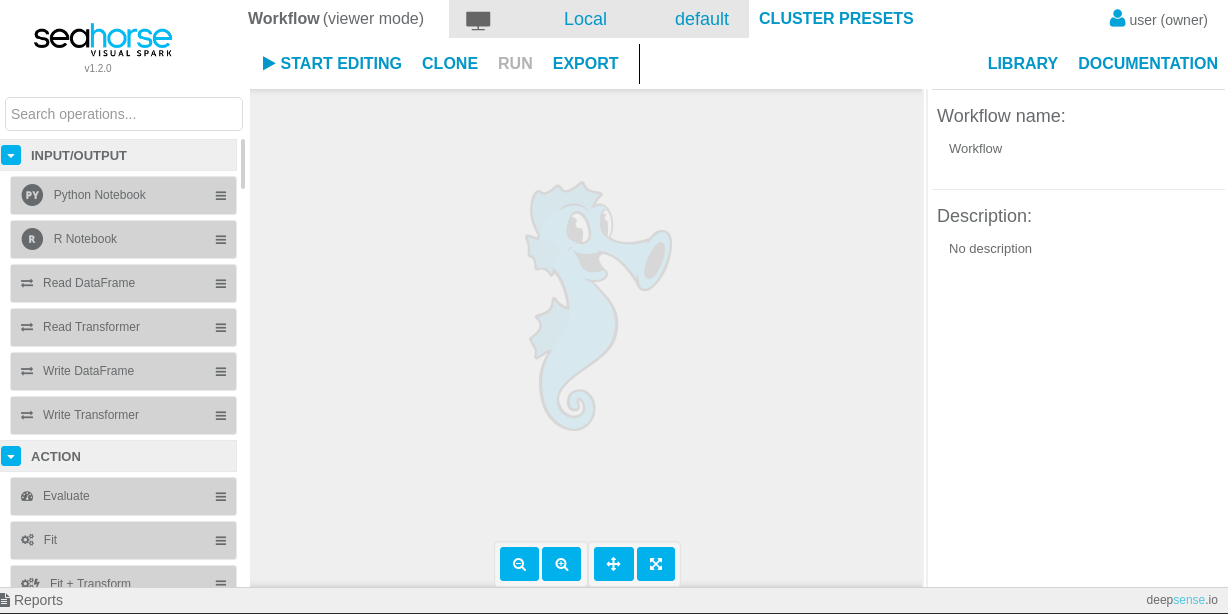
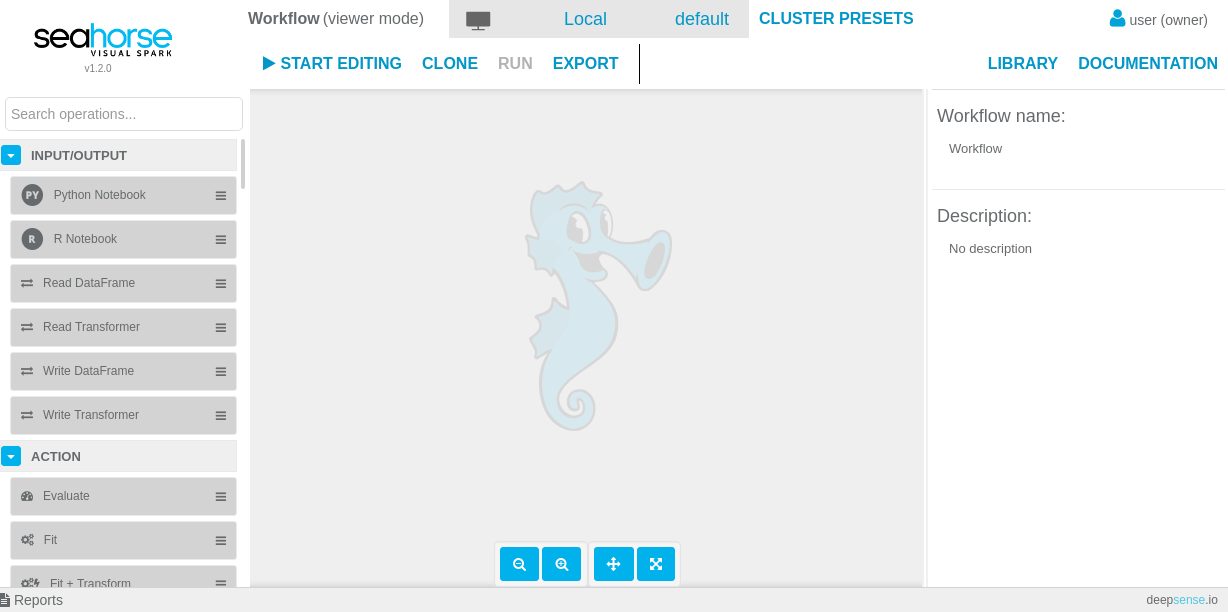
SHR-334 Replace old screenshots with current versions

diff --git a/docs/_deployment/tap.md b/docs/_deployment/tap.md
@@ -63,7 +63,7 @@ You can also create new workflows from scratch by pressing the
 **NEW WORKFLOW** button.
 
 <div class="centered-container" markdown="1">
-  ![List of workflows](../img/tap_list_of_workflows.png){: .centered-image .img-responsive}
+  ![List of workflows](../img/tap_list_of_workflows.png){: .centered-image .img-responsive .bordered-image}
   *List of workflows*
 </div>
 
@@ -76,7 +76,7 @@ This will start the Seahorse Spark application responsible for executing
 your workflow.
 
 <div class="centered-container" markdown="1">
-  ![List of workflows](../img/tap_seahorse_editor.png){: .centered-image .img-responsive}
+  ![List of workflows](../img/tap_seahorse_editor.png){: .centered-image .img-responsive .bordered-image}
   *Seahorse editor*
 </div>
 

diff --git a/docs/getting_started.md b/docs/getting_started.md
@@ -84,7 +84,7 @@ Home screen of Seahorse is a list of all workflows - initially filled with examp
 
 <!--Ten screen jest potrzebny, bo ikonka 'Library' wizualnie rozdziela labelke `SOURCE` i text input-->
 <!--i nie wiadomo gdzie jest pole tekstowe opisane przez labelke 'Source'-->
-<img class="centered-image img-responsive" style="width:300px; height:auto" src="./img/getting_started/source_param.png" />
+<img class="centered-image img-responsive bordered-image" style="width:300px; height:auto" src="./img/getting_started/source_param.png" />
 
 * Run operation by clicking
   <img class="img-responsive" style="display: inline-block; width:auto; height:15px;" src="./img/getting_started/run.png" />

diff --git a/docs/index.md b/docs/index.md
@@ -21,7 +21,7 @@ All while connected to any Spark Cluster (YARN, Mesos, Standalone) or to a bundl
 
 <div class="centered-container spacer" markdown="1">
   <img src="img/seahorse_editor.png"
-    class="centered-image img-responsive spacer" style="width:90%"/>
+    class="centered-image img-responsive spacer bordered-image" style="width:90%"/>
   *Seahorse's interface*
 </div>
 
